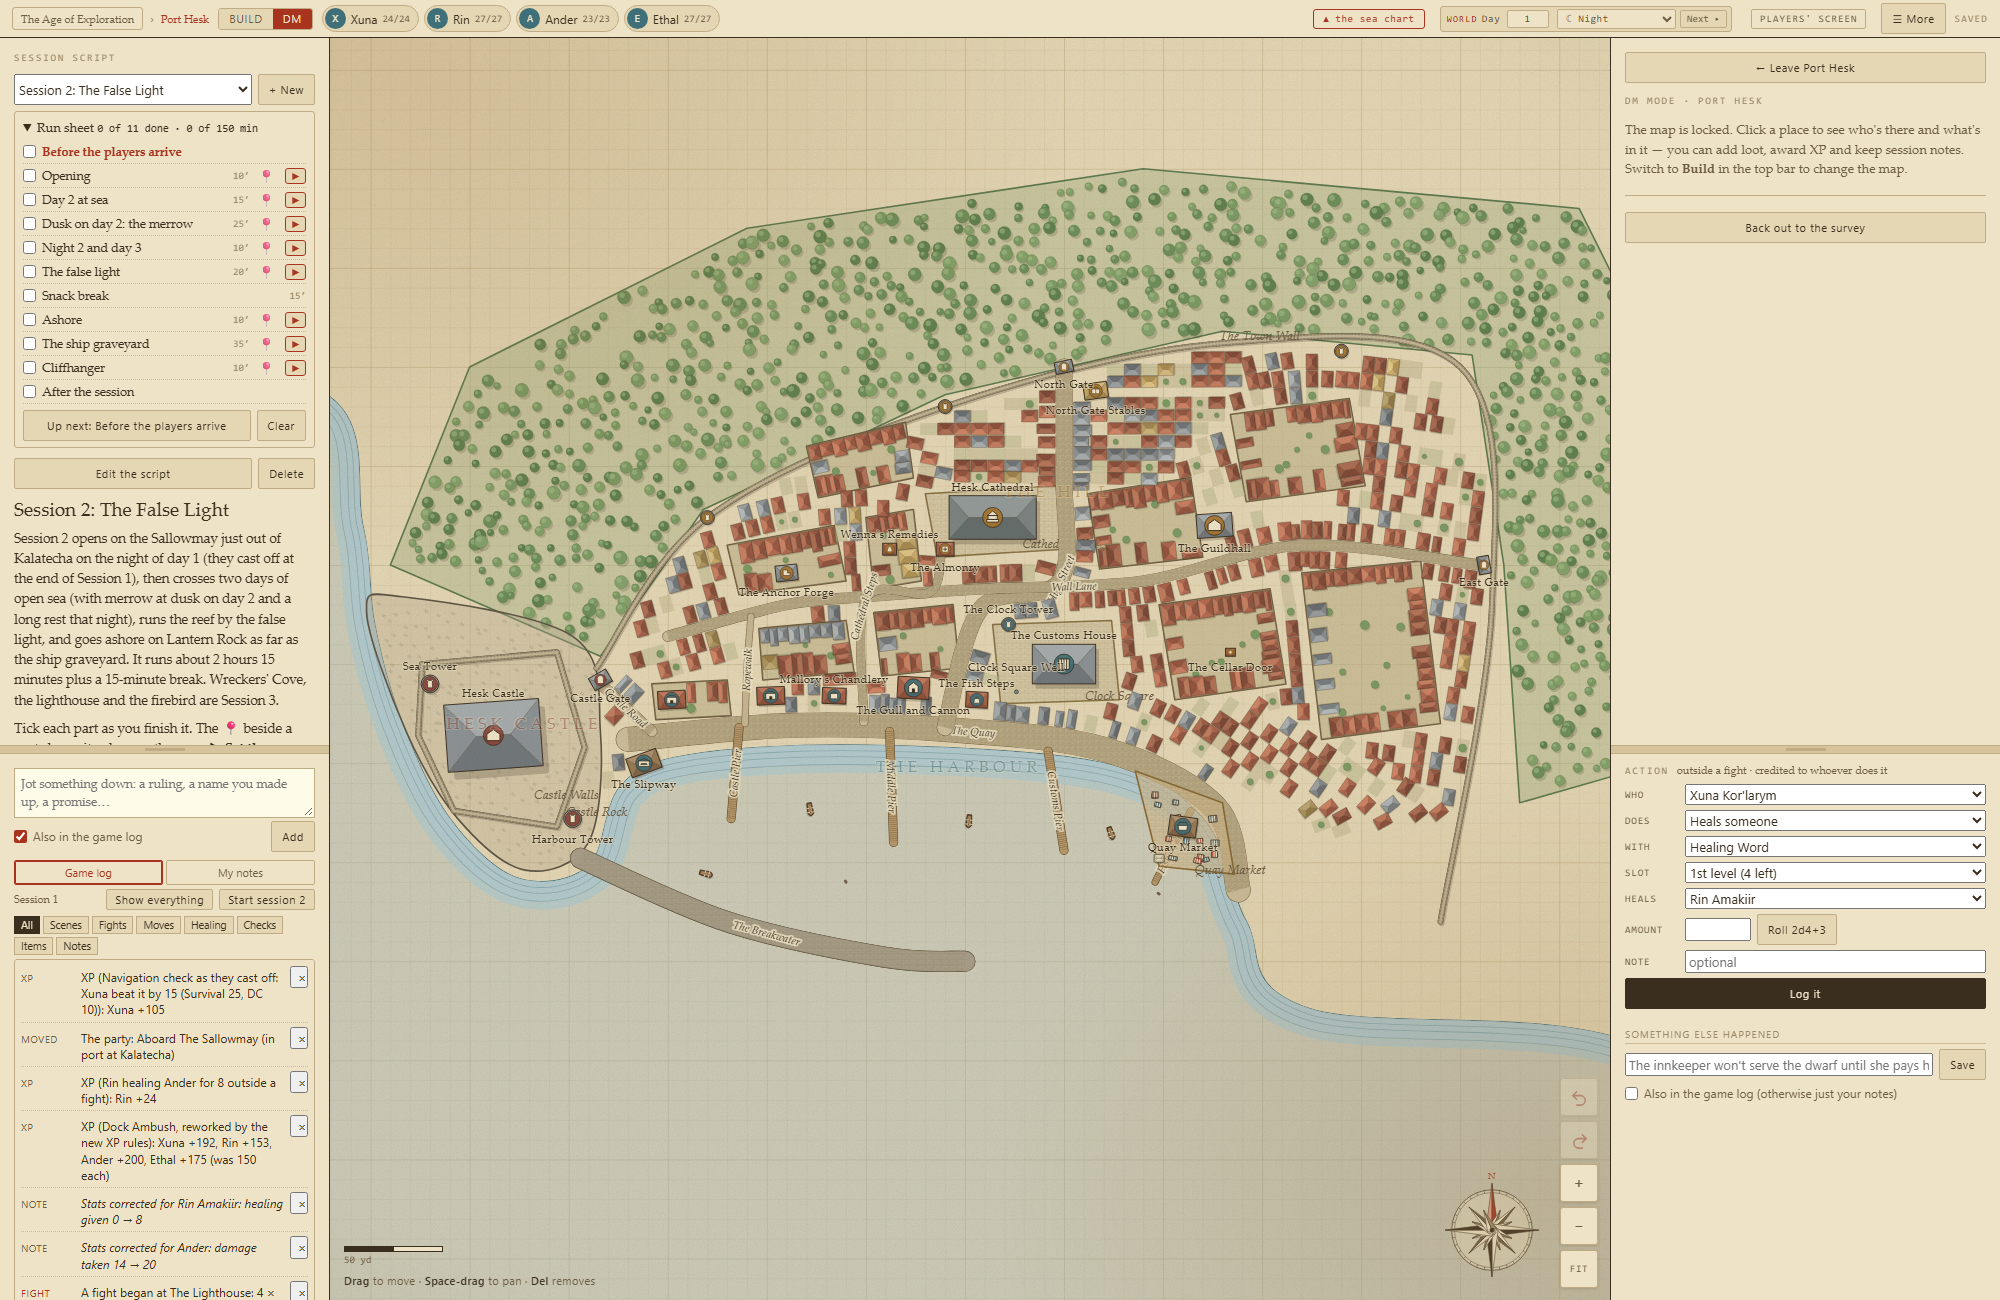
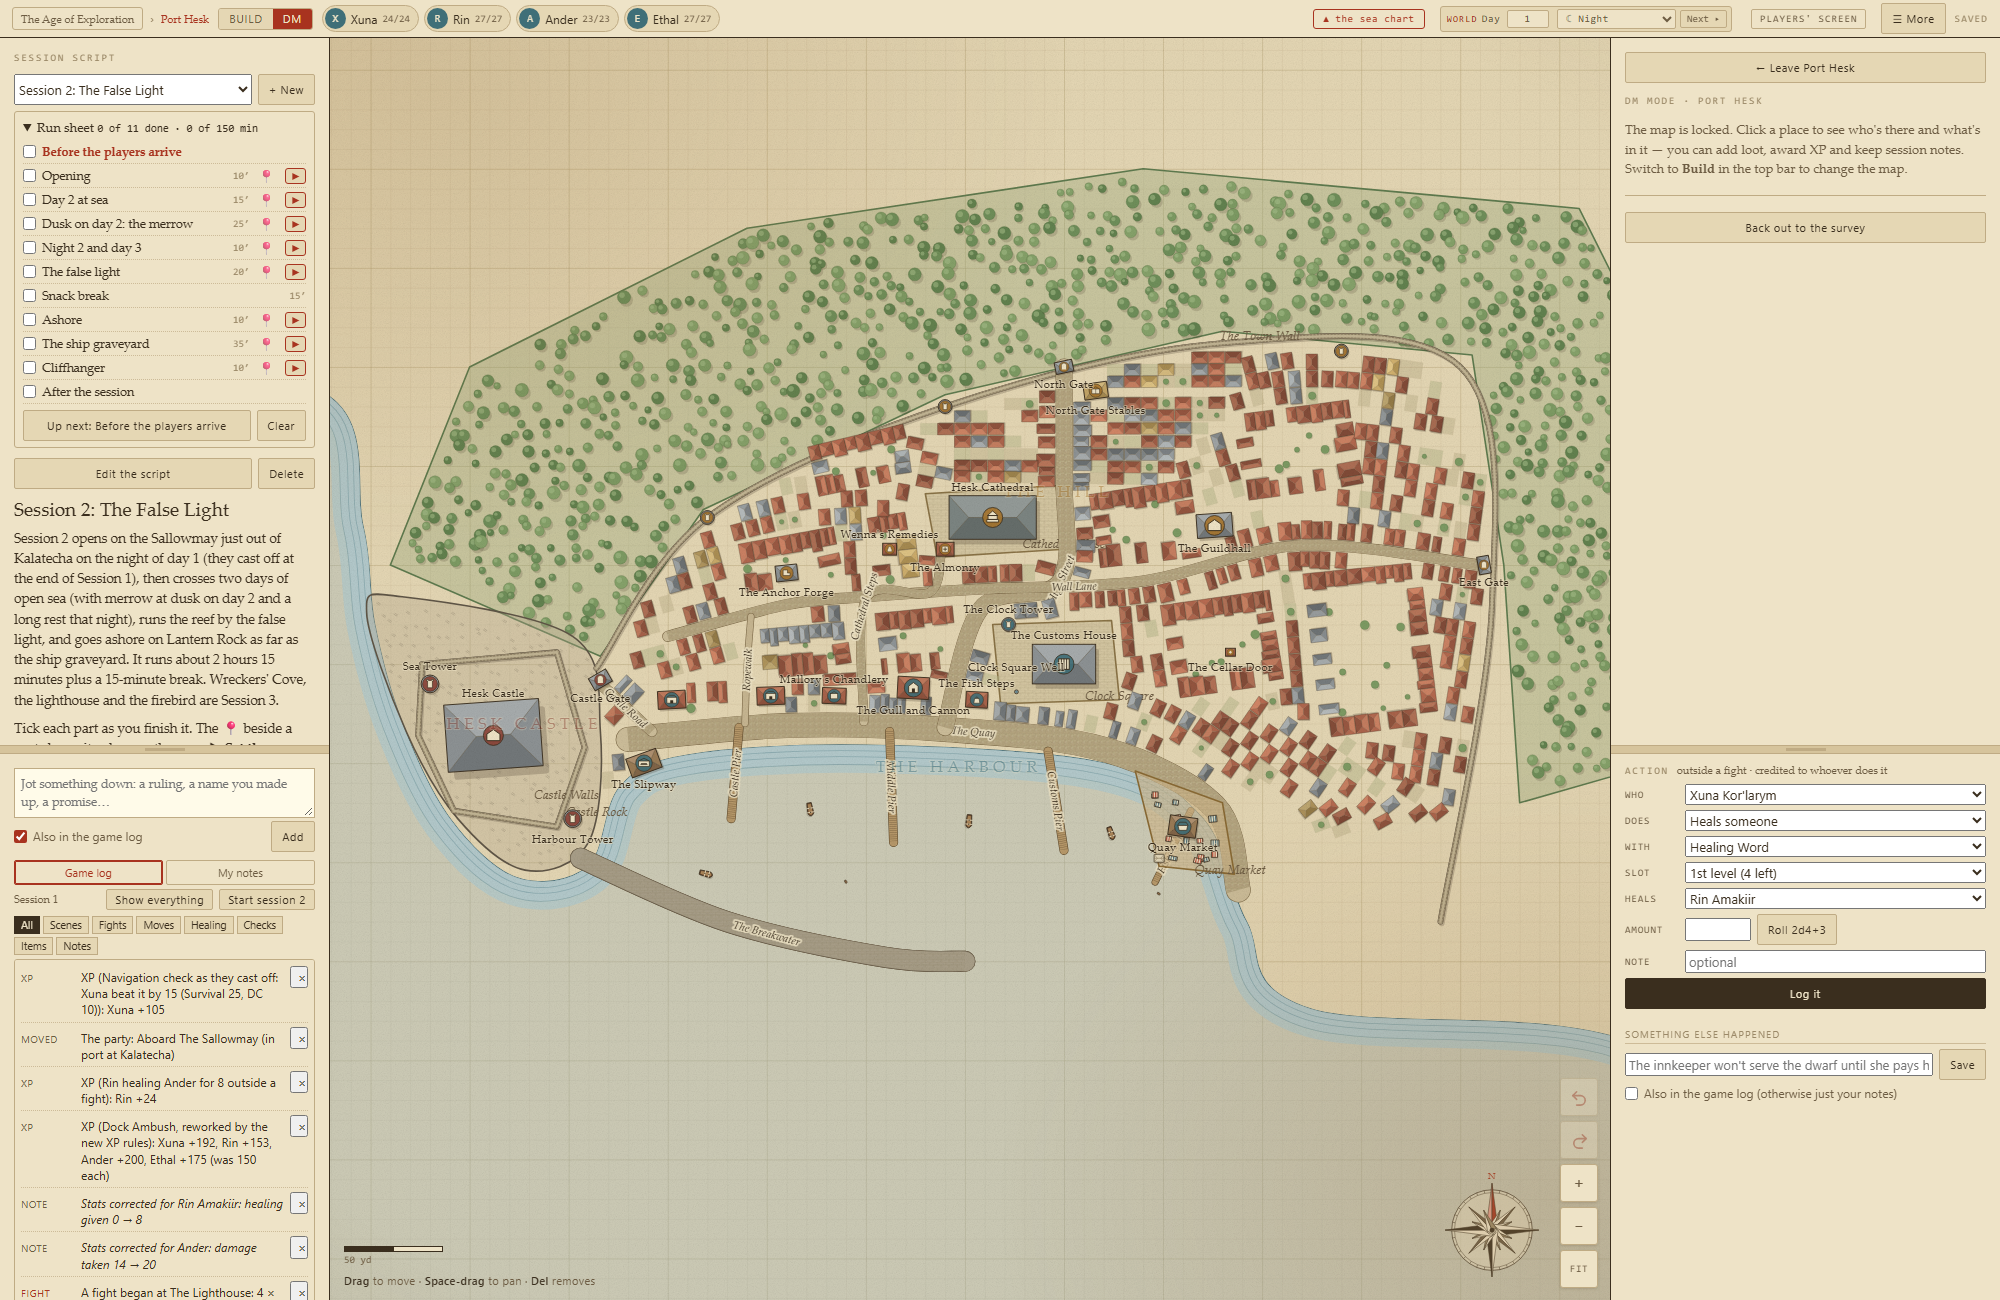
Town plans: blocks blend into the town outside Build (their houses are the block)

diff --git a/index.html b/index.html
@@ -4028,7 +4028,7 @@ function blockHouses(sh){
     if(!inRing(ring, p.x, p.y) || ringDist(ring, p.x, p.y) < r*1.5 || !clear(p) || placed.some(q=>hit(q, p) || Math.hypot(q.c.x-p.x, q.c.y-p.y) < r + 4*ppm)) continue;
     got++; yard += `<circle cx="${k1(p.x+r*.3)}" cy="${k1(p.y+r*.4)}" r="${k1(r)}" fill="#3a2e1e" opacity=".15"/><circle cx="${k1(p.x)}" cy="${k1(p.y)}" r="${k1(r)}" fill="#7d9b63" stroke="#4a6238" stroke-width="${k1(.12*ppm)}"/>`;
   }
-  const out = `<g pointer-events="none"><path d="${pathOf(sh.pts, true, sh.straight)}" fill="#b9b58a" opacity=".35"/>${yard}${s}</g>`;
+  const out = `<g pointer-events="none">${yard}${s}</g>`;
   blockCache.set(ck, out); return out;
 }
 /* the shore inside a plan's water: a pale shallow band and three ripple lines, kept inside the water */
@@ -4255,7 +4255,10 @@ function render(){
     }
     else if(sh.closed && !kd.barrier){
       s += coastRipples(sh, d, inv);
-      s += `<path class="shape${kd.paved?" paved":""}" d="${d}" fill="${kd.fill}" stroke="${on?"var(--lead)":kd.stroke}" stroke-width="${sw}" ${kd.dash?`stroke-dasharray="${kd.dash}"`:""}/>`;
+      /* a block of houses on a plan has no outline of its own outside Build: its houses are the block */
+      const blend = planOf && sh.kind==="block" && dmMode && !on;
+      s += blend ? `<path class="shape" d="${d}" fill="transparent" stroke="none"/>`
+        : `<path class="shape${kd.paved?" paved":""}" d="${d}" fill="${planOf && sh.kind==="block" ? "transparent" : kd.fill}" stroke="${on?"var(--lead)":kd.stroke}" stroke-width="${sw}" ${planOf && sh.kind==="block" && !on ? `stroke-opacity=".35" stroke-dasharray="${k1(4*inv)} ${k1(3*inv)}"` : kd.dash?`stroke-dasharray="${kd.dash}"`:""}/>`;
       s += terrainGlyphs(sh);
       if(sh.id===seaId) s += roseArt(inv);
       if(planOf){

diff --git a/Tools/DEV-NOTES.md b/Tools/DEV-NOTES.md
@@ -174,3 +174,4 @@ Next in order (Joseph, 2026-10-12; all three DONE, see below): (1) name + backst
 - Fix (2026-10-15): a leftover copy of the street drawing in the shape-name branch redrew every named street (and pier) over its own texture, and named streets never got a name. It now writes the street's name along it, with a paper halo. Cobbles are a real texture now (stroke="url(#pcob)", rounded stones and mortar).
 - Town plans, second pass (Joseph, 2026-10-15): stone walls on a plan (stoneWall: shadow, dressed stone, merlons, a wall-walk; no cliff ticks or old merlons); green ground (planGround, cached): trees scattered in greens, orchards in rows, garden beds, graveyard stones, hatching on bare rock; district names in spaced capitals at the middle of their buildings, zoomed out only (view.k <= .75); the compass rose on plans too; ships, rowboats, stalls, tents, wells and monuments drawn as themselves (PLAN_SMALL); a pier with stone:true is a stone mole/breakwater. Port Hesk: streets moved off the blocks, the Almonry into Cathedral Close, the gates and wall towers into The Hill, the breakwater stone.
 - Town fill (Joseph, 2026-10-15: "pockets of detail and then just empty space"): townFill() builds up the rest of a plan. The built-up part spreads out 55 yd from the buildings and blocks on a 2-yd grid, never across a wall or water, thinning over its last 40%. Every street and lane gets a row of houses down each side (gable to the street, a row's roofs one material in varying shades), then the ground behind is filled row on row parallel to its nearest street (a second spread from the streets gives each cell its street): ~74% houses, garden plots with the odd tree, a few courtyards. Cached until the plan changes (townFillCache). Blocks now build like streets too: a row along each side, back gardens and a few trees in the middle (blockHouses, cached in blockCache). Plan redraw ~170-270 ms headless (sea chart ~110).
+- Blocks blend in (2026-10-15): on a plan in DM mode (and so on the players' screen) a block has no fill or outline of its own, only its houses; in Build it shows as a faint dashed outline to edit.
